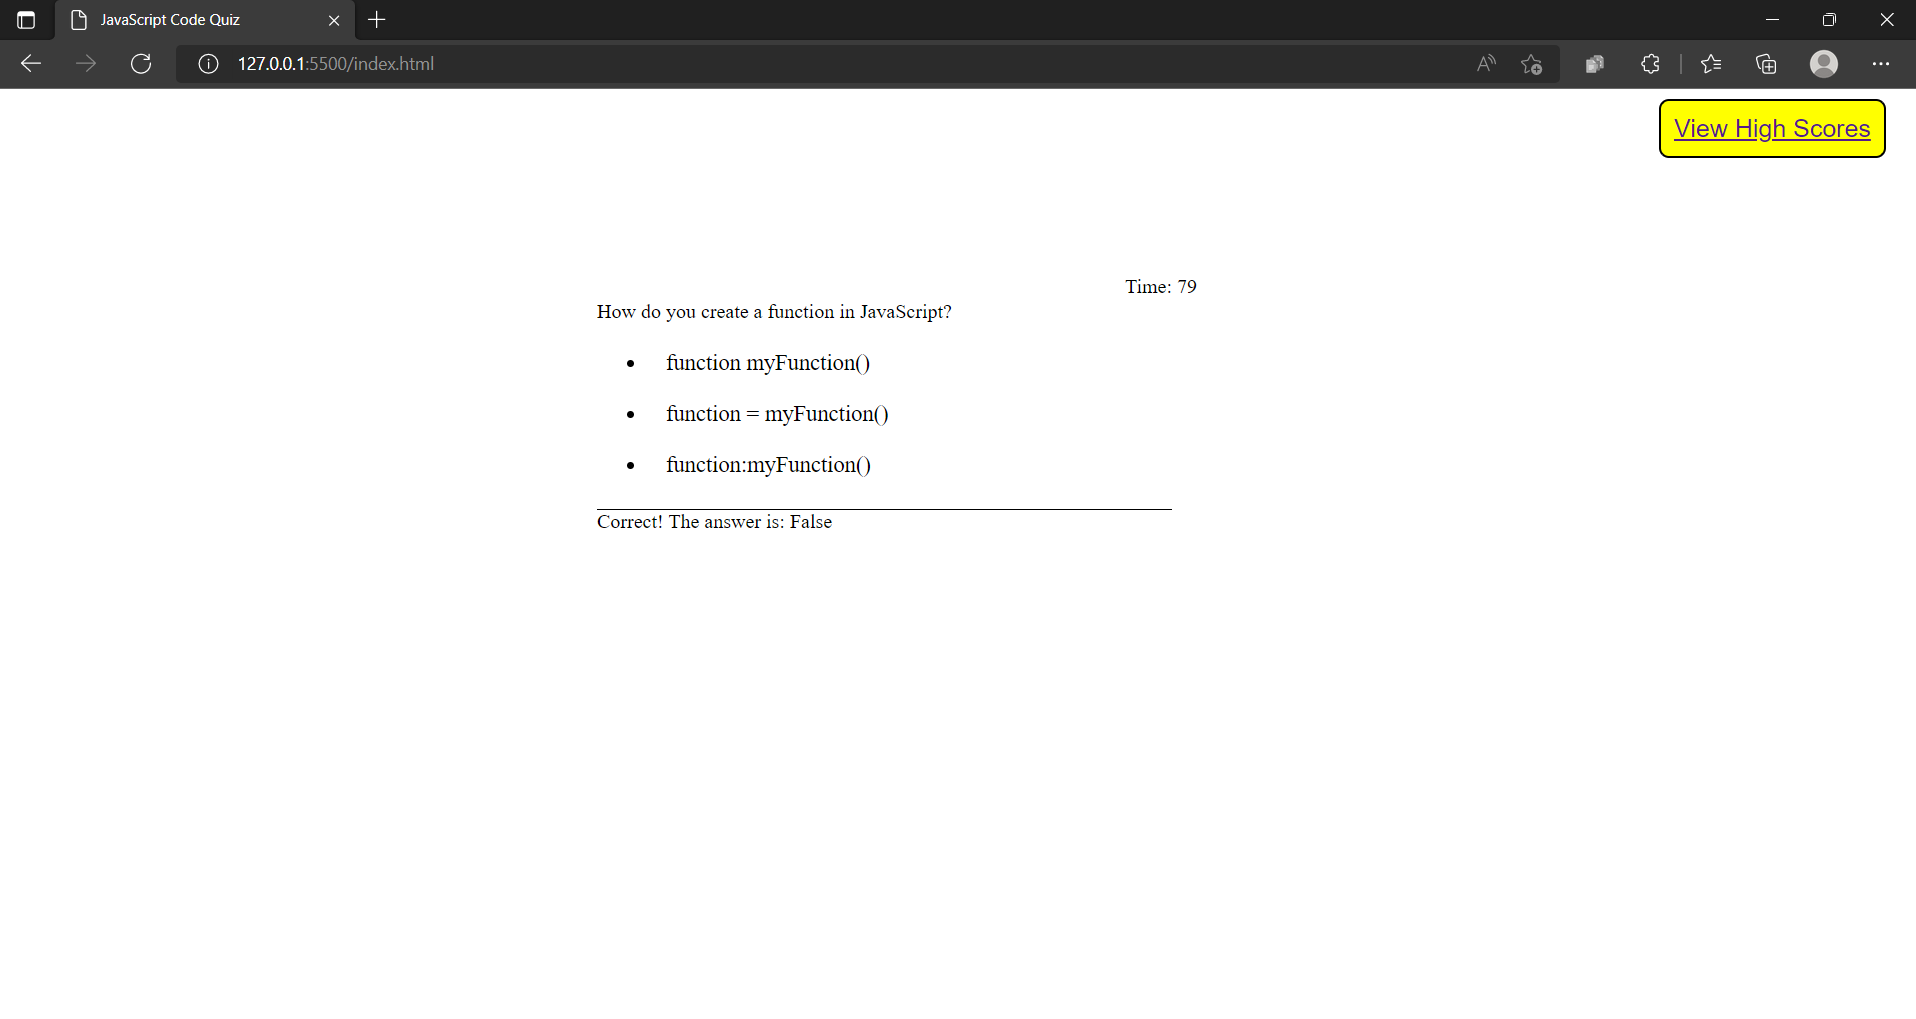
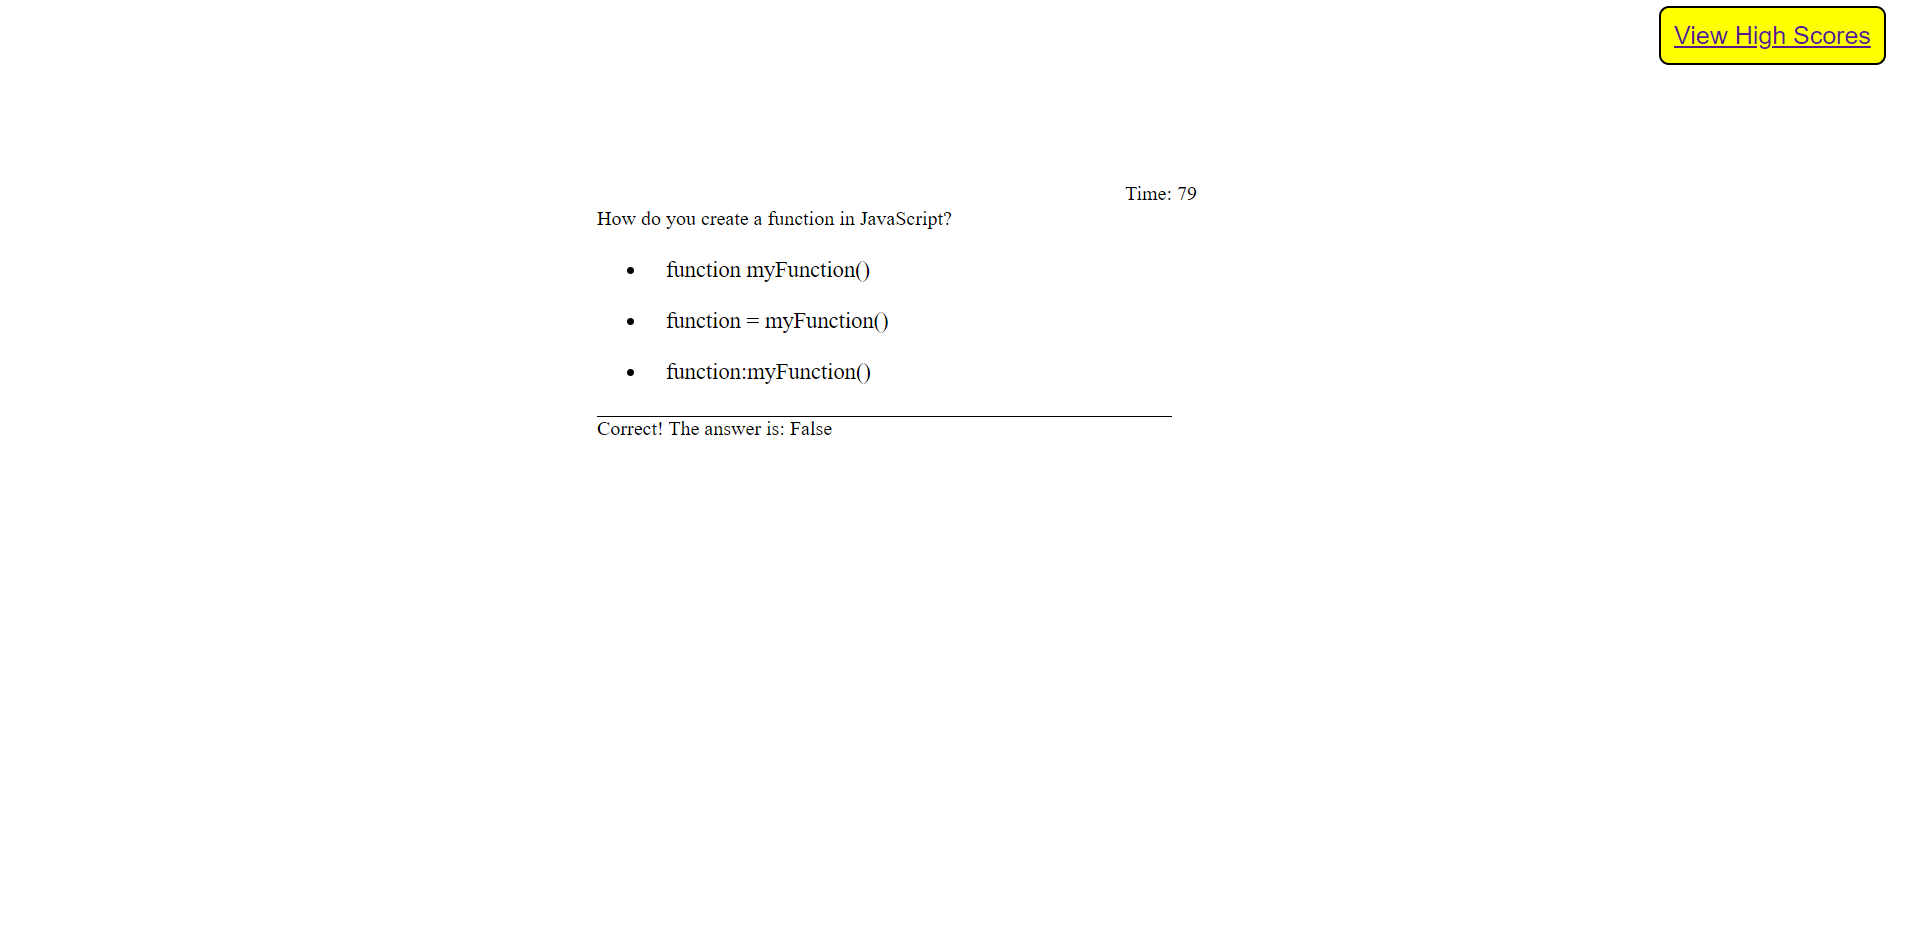
README

diff --git a/README.md b/README.md
@@ -14,4 +14,4 @@ To view this project or download it please use the following links.
 
 * [ Screenshots of project ]
 
-
+![Quiz-main-page] (./assets/images/Quiz-main-page.png)
